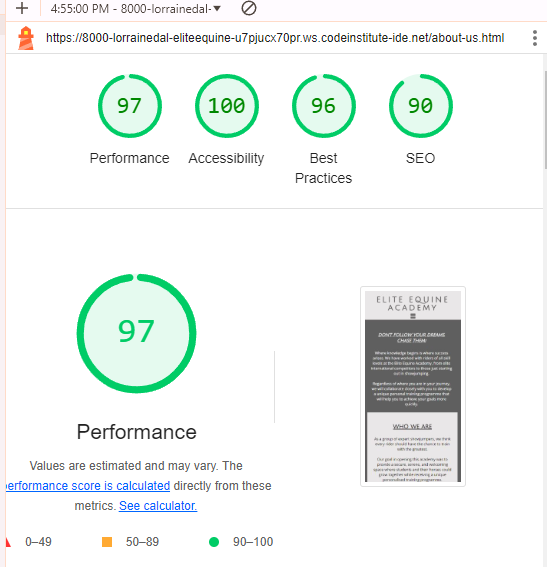
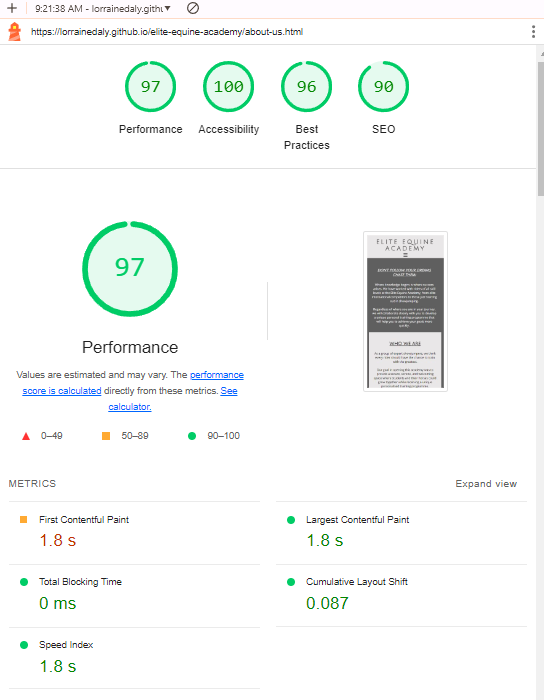
feat:Add updated site testing images and add to readme.md file

diff --git a/thank-you.html b/thank-you.html
@@ -51,7 +51,7 @@
     </header>
 
     <!-- Main Content -->
-    <main id="thank-you-page">
+    <main id="feedback-pages">
         <h2>Thank you for contacting us, we will be in touch shortly!</h2>
     
     </main>

diff --git a/assets/css/style.css b/assets/css/style.css
@@ -251,7 +251,7 @@ main {
 }
 
 /* form submission page */
-#thank-you-page {
+#feedback-pages {
     background-image: url(..//images/main-pic.jpg);
     background-position: center;
     background-size: cover;

diff --git a/README.md b/README.md
@@ -99,14 +99,14 @@ On tablets and larger devices.
 * The gallery is fully responsive on all divices.
   *  On Mobile Devices:
 
-  ![Gallery page on mobile devices](/assets/images/gallery-mobile.png)
+  ![Gallery page on mobile devices](/docs/images/gallery-mobile.png)
   * On tablets:
 
-  ![Gallery page on tablets](/assets/images/gallery-tablet.png)
+  ![Gallery page on tablets](/docs/images/gallery-tablet.png))
 
   * On laptops and larger devices:
 
-  ![Gallery page on laptops and larger devices](/assets/images/gallery-laptops.png)
+  ![Gallery page on laptops and larger devices](/docs/images/gallery-laptops.png)
 
 
 ## Contact Us:
@@ -114,12 +114,12 @@ On tablets and larger devices.
 * This page allows the user to contact us directly from our site.
 The user will be able to select the relevant query from the drop down menu and add any comment or question that they have.
 
- ![Contact us page](/assets/images/contact-us.png)
+ ![Contact us page](/docs/images/contact-us-page-laptop.png)
 
 * An error will highlight if a user does not fill in all required sections.
 * When submitted a thank you page will open up advising the user that we will be in touch shortly.
 
-![Thank you page](/assets/images/thank-you.png)
+![Thank you page](/docs/images/thank-you-page.png)
 
 ## Footer 
 
@@ -128,15 +128,54 @@ The user will be able to select the relevant query from the drop down menu and a
 * It contains four social media links that open up in a new tab.
   * On Mobiles:
 
-  ![Footer image on mobile devices](/assets/images/footer-mobile.png)
+  ![Footer image on mobile devices](/docs/images/footer-mobile.png)
 
   * On Tablets and larger devices:
 
-  ![Footer image on tablets and larger devices](/assets/images/footer-tablet-and-larger.png)
+  ![Footer image on tablets and larger devices](/docs/images/footer-tablets.png)
 
 
 # Testing
-* 
+## Google Lighthouse
+I ran all the pages in lighthouse on both mobile and computer setting to view the sites performance, accessibility, best practices and SEO. Please see the results below.
+* Home:
+  * On Mobile:
+
+![Lighthouse report on Mobile for home page](/docs/images/home-mobile-report.png)
+
+  * On Laptops
+
+  ![Lighthouse report on Mobile for home page](/docs/images/home-computer-report.png)
+
+  
+* About us:
+  * On Mobile
+  
+![Lighthouse report on Mobile for about us page](/docs/images/about-us-mobile-report.png)
+
+  * On Laptops:
+
+  ![Lighthouse report on Mobile for about us page](/docs/images/about-us-computer-report.png)
+
+  
+* Gallery:
+  * On Mobile:
+  
+![Lighthouse report on Mobile for gallery page](/docs/images/gallery-mobile-report.png)
+
+  * On Laptops:
+
+  ![Lighthouse report on Mobile for gallery page](/docs/images/gallery-computer-report.png)
+
+  
+* Contact Us:
+  * On Mobile
+  
+![Lighthouse report on Mobile for home page](/docs/images/contact-us-mobile-report.png)
+
+  * On Laptops
+
+  ![Lighthouse report on Mobile for home page](/docs/images/contact-us-computer-report.png)
 ## Bugs
 
 * 
